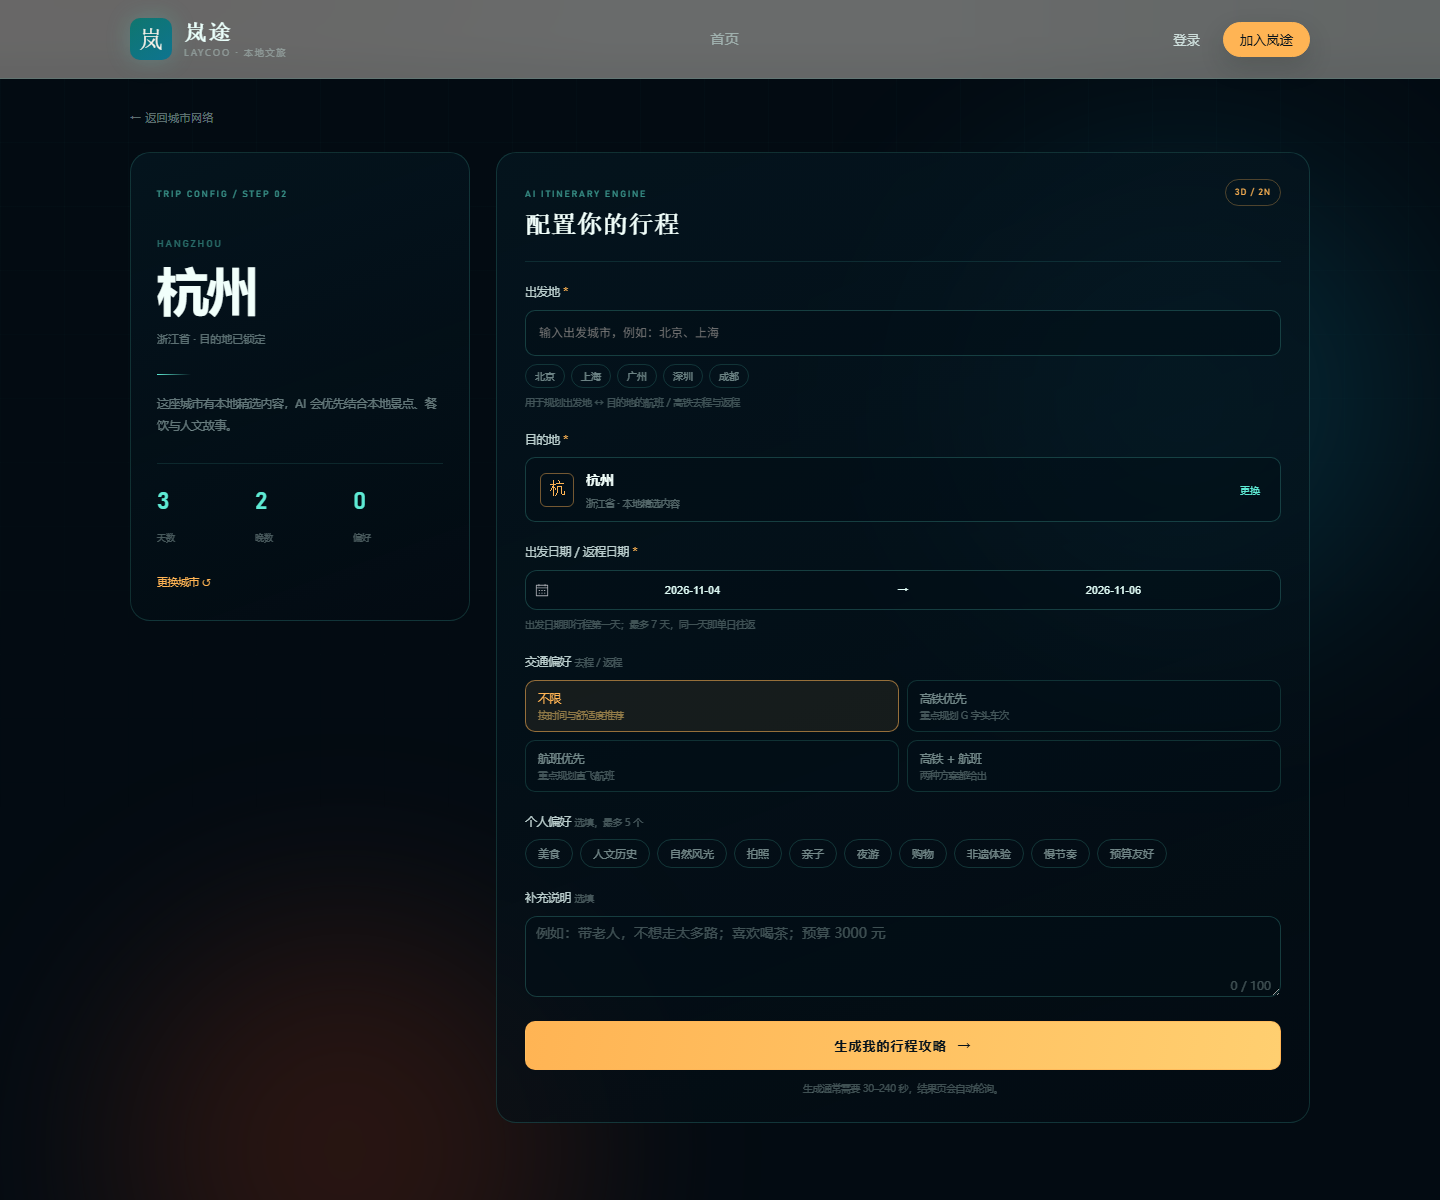
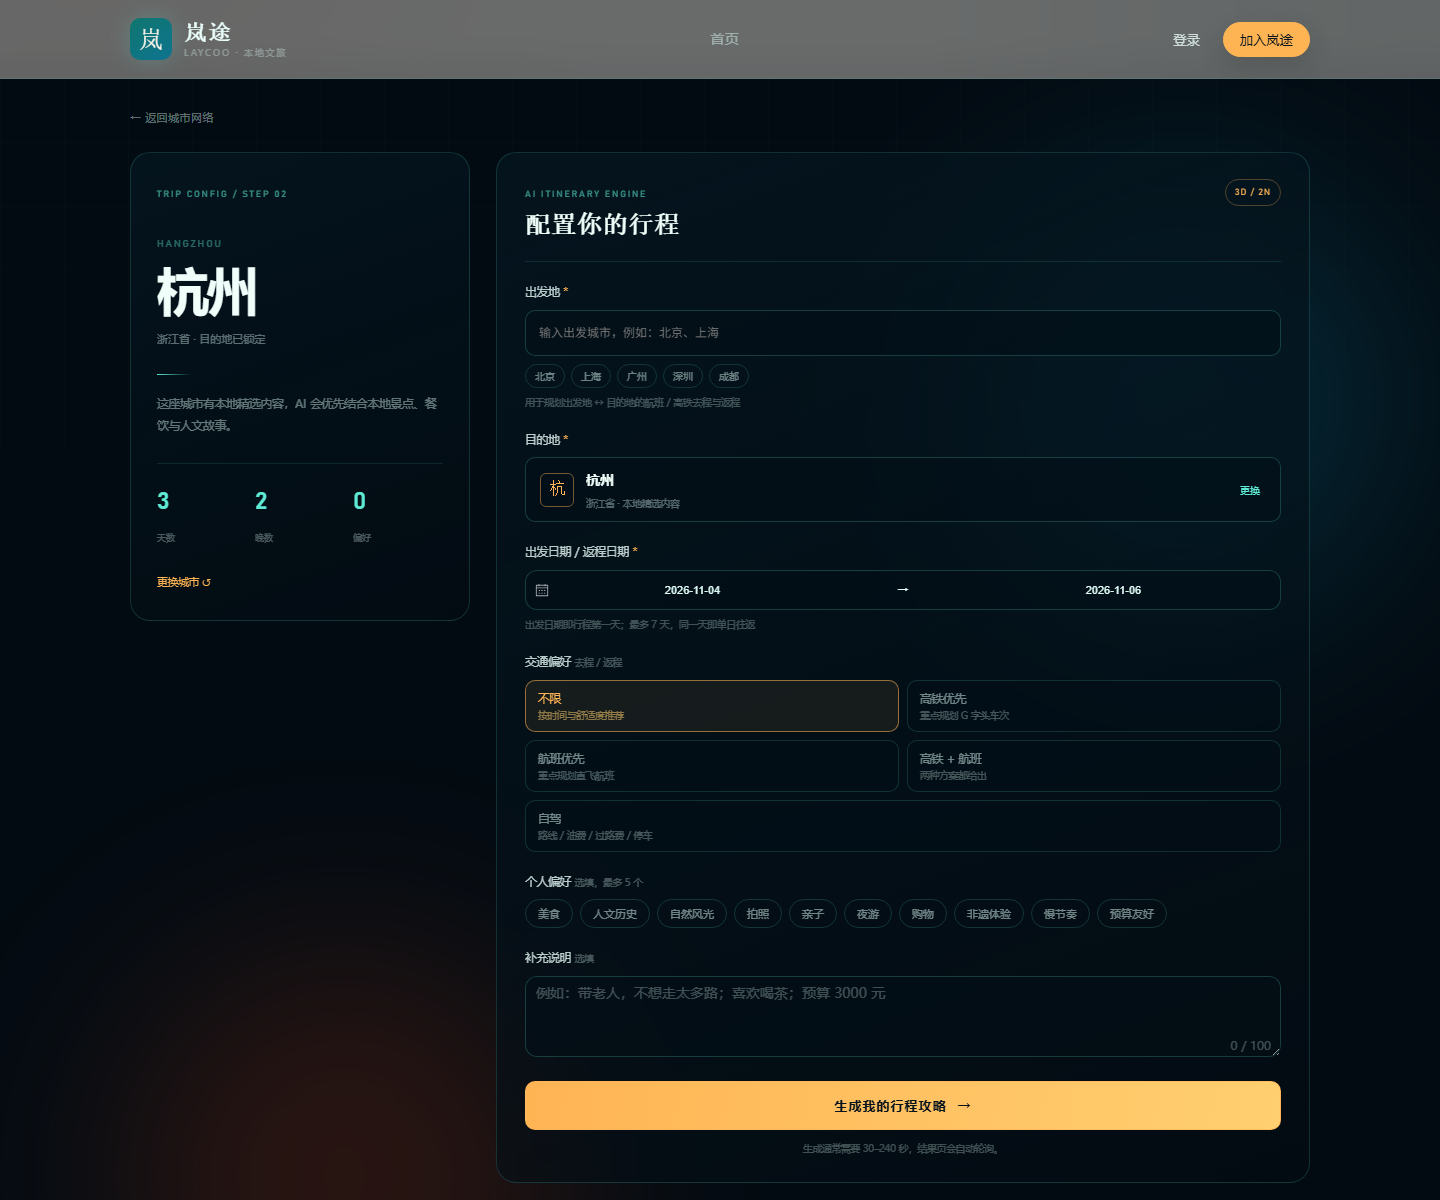
feat: 增加自驾游配置与自驾路线展示
交通偏好新增自驾；结果页新增自驾路线面板，展示里程、时长、过路费、油费、停车、休息中转和自驾提示；更新截图与说明。

Changed region(s): [[0.3438, 0.6783, 0.9062, 0.9867], [0.5938, 0.7092, 0.8125, 0.7708]]

diff --git a/src/views/PlanResultView.vue b/src/views/PlanResultView.vue
@@ -22,6 +22,10 @@ const active = computed(() => days.value[activeDay.value] ?? null)
 const isGenerating = computed(() => detail.value?.status === 'PENDING' || detail.value?.status === 'RUNNING')
 const isFailed = computed(() => detail.value?.status === 'FAILED')
 const transport = computed(() => plan.value?.intercityTransport)
+const driving = computed(() => plan.value?.driving)
+const isSelfDrive = computed(() =>
+  detail.value?.transportPreference === 'SELF_DRIVE' || transport.value?.outbound.mode === 'SELF_DRIVE'
+)
 const transportLegs = computed<Array<{ key: string; label: string; leg: PlanTransportLeg }>>(() => {
   if (!transport.value) {
     return []
@@ -39,6 +43,8 @@ const transportPreferenceLabel = computed(() => {
       return '航班优先'
     case 'BOTH':
       return '高铁 + 航班'
+    case 'SELF_DRIVE':
+      return '自驾'
     default:
       return '智能选择'
   }
@@ -58,7 +64,7 @@ function typeLabel(type: string): string {
 }
 
 function modeLabel(mode: string): string {
-  return { TRAIN: '高铁', FLIGHT: '航班', MIXED: '高铁 / 航班' }[mode] || '交通'
+  return { TRAIN: '高铁', FLIGHT: '航班', MIXED: '高铁 / 航班', SELF_DRIVE: '自驾' }[mode] || '交通'
 }
 
 function stopPolling() {
@@ -259,8 +265,43 @@ onBeforeUnmount(stopPolling)
 
         <div class="intercity__foot">
           <span>{{ transport.note }}</span>
-          <a href="https://www.12306.cn/index/" target="_blank" rel="noopener noreferrer">查询实时车次 →</a>
+          <a v-if="!isSelfDrive" href="https://www.12306.cn/index/" target="_blank" rel="noopener noreferrer">查询实时车次 →</a>
         </div>
+      </section>
+
+      <section v-if="driving" class="driving panel">
+        <div class="driving__head">
+          <div>
+            <span class="eyebrow">SELF DRIVE</span>
+            <h2>自驾路线</h2>
+          </div>
+          <a href="https://www.amap.com/" target="_blank" rel="noopener noreferrer" class="badge badge--soft">打开高德地图 ↗</a>
+        </div>
+
+        <h3 class="driving__route">{{ driving.route }}</h3>
+        <div class="driving__stats">
+          <div><span>里程</span><strong>{{ driving.distance }}</strong></div>
+          <div><span>驾驶时长</span><strong>{{ driving.duration }}</strong></div>
+          <div><span>过路费</span><strong>{{ driving.tolls || '以实际路段为准' }}</strong></div>
+          <div><span>油费</span><strong>{{ driving.fuel || '按车型与油价估算' }}</strong></div>
+          <div class="driving__parking"><span>停车</span><strong>{{ driving.parking }}</strong></div>
+        </div>
+
+        <div class="driving__lists">
+          <div>
+            <h4>休息与中转</h4>
+            <ul>
+              <li v-for="item in driving.restStops" :key="item">{{ item }}</li>
+            </ul>
+          </div>
+          <div v-if="driving.tips?.length">
+            <h4>自驾提示</h4>
+            <ul>
+              <li v-for="item in driving.tips" :key="item">{{ item }}</li>
+            </ul>
+          </div>
+        </div>
+        <p class="driving__note">实际里程、路况、过路费、油费与停车请以导航和现场信息为准。</p>
       </section>
 
       <div class="day-tabs">
@@ -669,6 +710,101 @@ onBeforeUnmount(stopPolling)
   font-size: 10.5px;
 }
 
+.driving {
+  margin-top: 16px;
+  padding: 24px 26px;
+  background: linear-gradient(135deg, rgba(176, 138, 79, 0.08), rgba(255, 252, 245, 0.8));
+}
+
+.driving__head {
+  display: flex;
+  justify-content: space-between;
+  align-items: flex-start;
+  gap: 16px;
+  padding-bottom: 14px;
+  border-bottom: 1px dashed var(--line);
+}
+
+.driving__head h2 {
+  margin-top: 6px;
+  font-size: 22px;
+}
+
+.driving__route {
+  margin-top: 16px;
+  font-size: 20px;
+}
+
+.driving__stats {
+  display: grid;
+  grid-template-columns: repeat(4, minmax(0, 1fr));
+  gap: 8px;
+  margin-top: 14px;
+}
+
+.driving__stats > div {
+  display: flex;
+  flex-direction: column;
+  gap: 4px;
+  padding: 10px 12px;
+  border: 1px solid var(--line);
+  border-radius: 10px;
+  background: rgba(255, 252, 245, 0.6);
+}
+
+.driving__stats span {
+  color: var(--muted);
+  font-size: 9.5px;
+}
+
+.driving__stats strong {
+  color: var(--ink-soft);
+  font-size: 11px;
+  font-weight: 500;
+  line-height: 1.5;
+}
+
+.driving__stats .driving__parking {
+  grid-column: span 2;
+}
+
+.driving__lists {
+  display: grid;
+  grid-template-columns: repeat(2, minmax(0, 1fr));
+  gap: 18px;
+  margin-top: 16px;
+}
+
+.driving__lists h4 {
+  color: var(--ink-soft);
+  font-size: 12px;
+  font-weight: 600;
+}
+
+.driving__lists ul {
+  display: flex;
+  flex-direction: column;
+  gap: 5px;
+  margin-top: 7px;
+  color: var(--muted);
+  font-size: 10.5px;
+  line-height: 1.65;
+}
+
+.driving__lists li::before {
+  content: '·';
+  margin-right: 5px;
+  color: var(--gold);
+}
+
+.driving__note {
+  margin-top: 16px;
+  padding-top: 12px;
+  border-top: 1px dashed var(--line);
+  color: var(--muted);
+  font-size: 9.5px;
+}
+
 .day-tabs {
   display: flex;
   gap: 10px;
@@ -957,6 +1093,14 @@ onBeforeUnmount(stopPolling)
   }
 
   .intercity__grid {
+    grid-template-columns: 1fr;
+  }
+
+  .driving__stats {
+    grid-template-columns: repeat(2, minmax(0, 1fr));
+  }
+
+  .driving__lists {
     grid-template-columns: 1fr;
   }
 

diff --git a/src/views/PlanCreateView.vue b/src/views/PlanCreateView.vue
@@ -24,7 +24,8 @@ const transportOptions = [
   { value: 'AUTO', label: '不限', desc: '按时间与舒适度推荐' },
   { value: 'TRAIN', label: '高铁优先', desc: '重点规划 G 字头车次' },
   { value: 'FLIGHT', label: '航班优先', desc: '重点规划直飞航班' },
-  { value: 'BOTH', label: '高铁 + 航班', desc: '两种方案都给出' }
+  { value: 'BOTH', label: '高铁 + 航班', desc: '两种方案都给出' },
+  { value: 'SELF_DRIVE', label: '自驾', desc: '路线 / 油费 / 过路费 / 停车' }
 ]
 
 function formatDate(date: Date): string {
@@ -717,6 +718,10 @@ onMounted(async () => {
 
 .p-transport-options button.is-active small {
   color: rgba(255, 207, 112, 0.52);
+}
+
+.p-transport-options button:last-child:nth-child(odd) {
+  grid-column: span 2;
 }
 
 .p-preferences {

diff --git a/src/types/index.ts b/src/types/index.ts
@@ -255,6 +255,17 @@ export interface IntercityTransport {
   note?: string
 }
 
+export interface DrivingPlan {
+  route: string
+  distance: string
+  duration: string
+  tolls?: string
+  fuel?: string
+  parking: string
+  restStops: string[]
+  tips?: string[]
+}
+
 export interface TravelPlan {
   title: string
   summary: string
@@ -264,6 +275,7 @@ export interface TravelPlan {
   dayCount: number
   preferences: string[]
   intercityTransport?: IntercityTransport
+  driving?: DrivingPlan
   days: PlanDay[]
   budget?: {
     level?: string

diff --git a/README.md b/README.md
@@ -50,8 +50,9 @@ npm.cmd run dev
 - 支持城市 / 省份搜索、热门城市快捷选择、地图缩放与聚焦
 - 地图数据在 `src/assets/maps/china-outline.json`，本地加载，不依赖 CDN
 - 提交后创建异步行程任务，跳转 `/plan/:planNo`
-- 行程配置包含出发城市、出发/返程日期、交通偏好（不限 / 高铁 / 航班 / 两者）
+- 行程配置包含出发城市、出发/返程日期、交通偏好（不限 / 高铁 / 航班 / 两者 / 自驾）
 - 结果页展示去程/返程高铁与航班参考方案，并提示以 12306 / 航司实时信息为准
+- 自驾模式额外展示自驾路线、里程、驾驶时长、过路费、油费、停车、休息与中转建议
 - 结果页按天展示时间轴、餐饮、交通、预算、雨天备选
 - 生成中自动轮询，失败可重试
 
